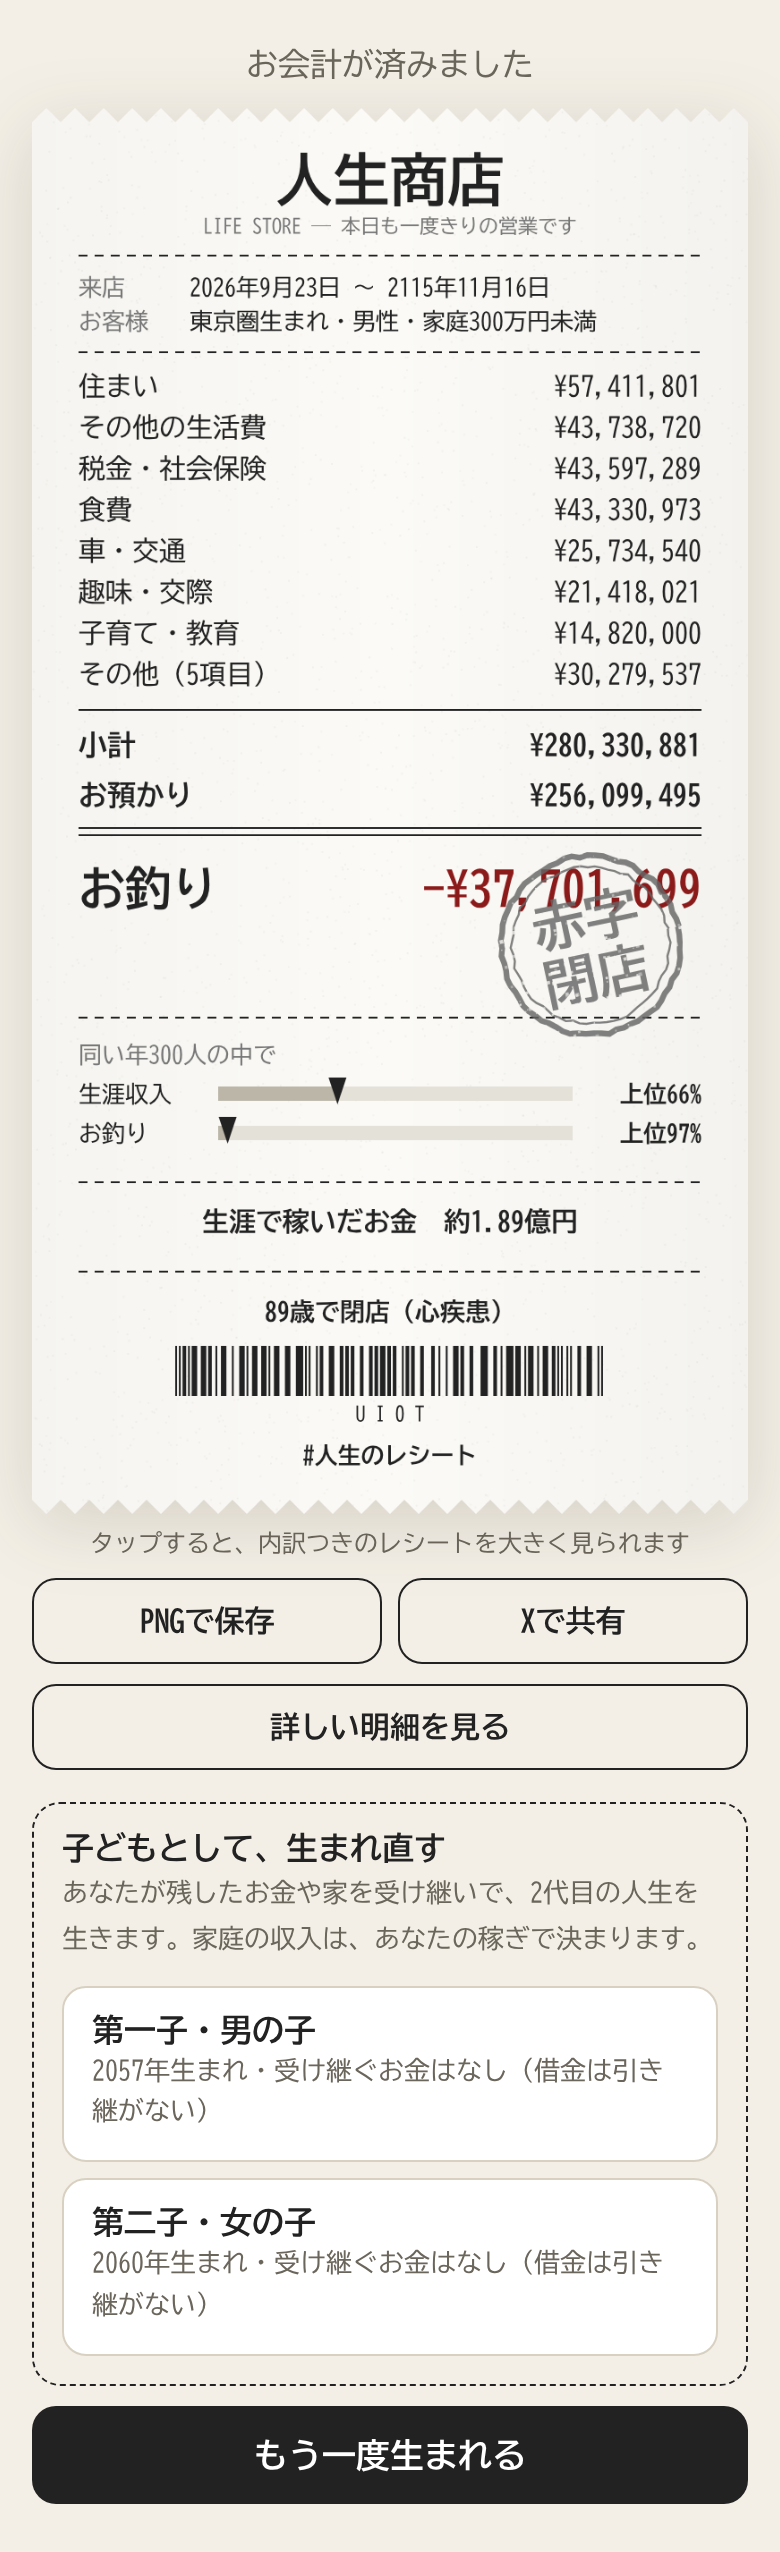
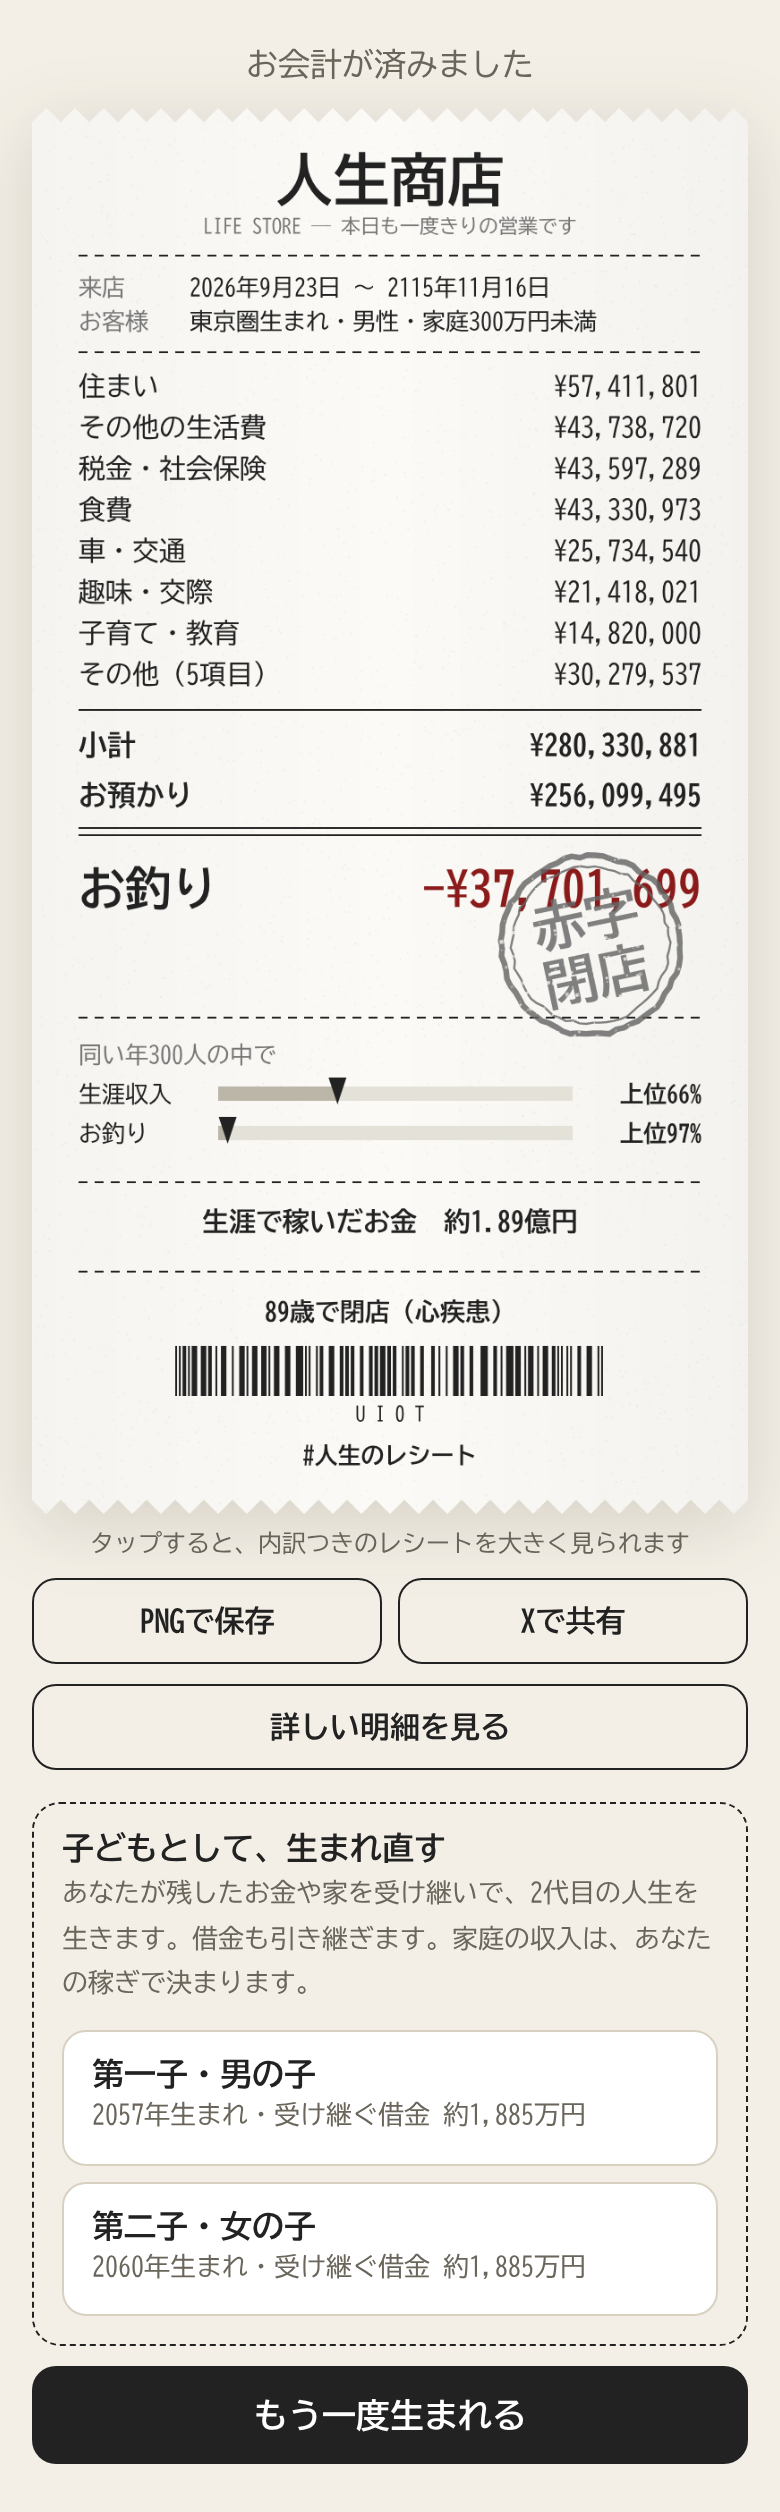
子どもに生まれ直したとき、親の借金も引き継ぐようにする
相続放棄はせず、前の代が残した借金を子どもの数で分けて、親が亡くなった年に引き継ぐ。
結果画面の子どもの欄に「受け継ぐ借金」、レシートに「親から受け継いだ借金」を出す。
1代目の人生は前と同じ（2400人で一致を確認）。

Claude-Session: https://claude.ai/code/session_01P8h7G7H9Hz4F9jwmunJGJH

diff --git a/src/engine/result.ts b/src/engine/result.ts
@@ -95,7 +95,7 @@ export function childOf(l: Life, idx: number): Life {
   const hh = rec ? (rec.income.salary ?? 0) + (rec.income.partner ?? 0) : 0;
   const bands = l.D.household.incomeBandsWithChildren;
   const band = bands.find((b) => hh >= b.min && hh < b.max) ?? (hh < bands[0].min ? bands[0] : bands[bands.length - 1]);
-  // 遺産：最後に残したお金（家を含む）を子どもの数で分ける。借金は引き継がない
+  // 遺産：最後に残したお金（家を含む）を子どもの数で分ける。借金も相続放棄せず、子どもの数で分けて引き継ぐ
   const n = Math.max(1, l.kids.length);
   const total = l.balance;
   const home = Math.max(0, Math.min(l.homeValue, total));
@@ -119,16 +119,17 @@ export function childOf(l: Life, idx: number): Life {
     otherSafeUntil: together ? l.age - k.born + 1 : 0,
     sibs: l.kids.map((o, j) => ({ sex: (kidFemale(l.seed, j) ? "female" : "male") as "female" | "male", born: o.born - k.born })).filter((_, j) => j !== idx),
     estate: Math.max(0, total - home) / n,
-    debt: total < 0,
+    debt: Math.max(0, -total) / n,
     homeShare: home / n,
+    hadHome: l.homeValue > 0,
     lineage,
   };
   return new Life(`${l.seed}k${idx}`, l.D, l.mode, l.birthYear + k.born, h);
 }
 
-/** 子どもとして生まれ直したとき、受け継ぐお金の目安（家を含む。現地通貨） */
+/** 子どもとして生まれ直したとき、受け継ぐお金の目安（家を含む。借金ならマイナス。現地通貨） */
 export function estateFor(l: Life): number {
-  return Math.max(0, l.balance) / Math.max(1, l.kids.length);
+  return l.balance / Math.max(1, l.kids.length);
 }
 
 /** URLの版が今より古いか（ゲームの内容が変わり、同じ人生を再現できなくなったもの） */
@@ -255,7 +256,7 @@ export function buildReceipt(l: Life): ReceiptData {
     { label: "本人の稼ぎ", amount: Math.round(s.incomeTotal.salary ?? 0) },
     { label: "パートナーの稼ぎ", amount: Math.round(s.incomeTotal.partner ?? 0) },
     { label: "年金・退職金", amount: Math.round(s.incomeTotal.pension ?? 0) },
-    { label: "親から受け継いだお金", amount: Math.round(l.inherited) },
+    { label: l.inherited < 0 ? "親から受け継いだ借金" : "親から受け継いだお金", amount: Math.round(l.inherited) },
     { label: "手当・相続・臨時", amount: Math.round((s.incomeTotal.windfall ?? 0) - l.inherited) },
     { label: "運用損益", amount: inv },
   ].filter((d) => Math.abs(l.D.toJpy(d.amount)) >= 10_000);

diff --git a/src/ui/receipt.ts b/src/ui/receipt.ts
@@ -297,12 +297,12 @@ function layout(p: Pen, d: ReceiptData): void {
     yenNote(d.deposit);
   }
   // 短いレシートでも、親から受け継いだお金だけは見せる（子どもに生まれ直した人）
-  const fromParent = d.depositLines.find((l) => l.label === "親から受け継いだお金");
+  const fromParent = d.depositLines.find((l) => l.label.startsWith("親から受け継いだ"));
   if (c && fromParent) {
     p.y += 16;
     if (p.draw) {
-      text(p, "　うち親から受け継いだお金", PAD + 8, 11, { color: GRAY });
-      text(p, money(fromParent.amount), W - PAD, 11, { color: GRAY, align: "right" });
+      text(p, `　うち${fromParent.label}`, PAD + 8, 11, { color: fromParent.amount < 0 ? RED_INK : GRAY });
+      text(p, money(fromParent.amount), W - PAD, 11, { color: fromParent.amount < 0 ? RED_INK : GRAY, align: "right" });
     }
   }
   for (const l of c ? [] : d.depositLines) {
@@ -418,7 +418,7 @@ export function drawReceipt(canvas: HTMLCanvasElement, d: ReceiptData, compact =
 }
 
 // レシートに書く決まった文字（数字・記号を含む）
-const FIXED_TEXT = "うち親から受け継いだ代目家系のレシート稼ぎ／残したお金男性女性第一二三四五子その他（項目）〜人生商店LIFE STORE ─ 本日も一度きりの営業です来店閉店お客様No.小計お預かりお釣り約万円億（今日の為替で換算）同い年人の中で生涯収入上位%生涯で稼いだお金#人生のレシート—…　└¥0123456789,.-";
+const FIXED_TEXT = "借金うち親から受け継いだ代目家系のレシート稼ぎ／残したお金男性女性第一二三四五子その他（項目）〜人生商店LIFE STORE ─ 本日も一度きりの営業です来店閉店お客様No.小計お預かりお釣り約万円億（今日の為替で換算）同い年人の中で生涯収入上位%生涯で稼いだお金#人生のレシート—…　└¥0123456789,.-";
 
 /**
  * レシートで使う文字のフォントを、描く前に読み込む。

diff --git a/scripts/simtest.ts b/scripts/simtest.ts
@@ -17,6 +17,7 @@ const choiceCounts: number[] = [];
 const optionHits = new Map<string, number>();
 let events = 0;
 let heirLives = 0;
+let heirDebts = 0;
 
 function check(l: Life, tag: string) {
   for (const y of l.records) {
@@ -74,6 +75,8 @@ for (let i = 0; i < N; i++) {
         if (h.parentDies <= child.age && !parentDeath) problems.push(`${seed}: ${h.gen}代目で親が亡くならない`);
         if (parentDeath && parentDeath.age !== h.parentDies) problems.push(`${seed}: ${h.gen}代目で親の亡くなる年が違う`);
         if (h.estate > 0 && h.parentDies <= child.age && Math.abs(child.inherited - h.estate - (child.home === "own" && h.homeShare > 0 ? 0 : h.homeShare)) > 1 && child.inherited < h.estate) problems.push(`${seed}: ${h.gen}代目の相続が合わない`);
+        if (h.debt > 0 && h.parentDies <= child.age && Math.abs(child.inherited + h.debt) > 1) problems.push(`${seed}: ${h.gen}代目で借金を引き継いでいない`);
+        if (h.debt > 0) heirDebts++;
         check(child, `${seed}#${h.gen}`);
         const back = (() => { const d = decodeResult(encodeResult(child)); return d && replayCode(d); })();
         if (!back || back.summary().finalBalance !== child.summary().finalBalance || back.heir?.gen !== h.gen) problems.push(`${seed}: ${h.gen}代目をURLから再現できない`);
@@ -113,7 +116,7 @@ if (MODE !== "j") {
 const t1 = Date.now();
 const c = cohort();
 console.log(`比較集団 ${c.income.length}人 ${Date.now() - t1}ms / 例: 中央値の順位 ${(rankOf(c.income, q(incomes, 0.5)) * 100).toFixed(0)}%`);
-console.log(`子どもに生まれ直した人生 ${heirLives}人（2・3代目）`);
+console.log(`子どもに生まれ直した人生 ${heirLives}人（2・3代目）、うち借金を引き継いだ ${heirDebts}人`);
 if (process.argv.includes("--options")) console.log([...optionHits.entries()].sort().map(([k, v]) => `${k}=${v}`).join("  "));
 if (process.argv.includes("--sample")) {
   const l = autoplay("sample-1");

diff --git a/src/engine/sim.ts b/src/engine/sim.ts
@@ -78,12 +78,14 @@ export interface Heritage {
   /** もう一人の親は、この年齢までは亡くならない（前の代のあなたが亡くなったとき、まだ生きていた） */
   otherSafeUntil: number;
   sibs: { sex: Sex; born: number }[];
-  /** 受け継ぐお金（家を除く。借金は引き継がない） */
+  /** 受け継ぐお金（家を除く） */
   estate: number;
-  /** 前の代のあなたが借金を残した（相続しない） */
-  debt: boolean;
+  /** 受け継ぐ借金（前の代のあなたが借金を残したとき。相続放棄はせず、子どもの数で分けて引き継ぐ） */
+  debt: number;
   /** 実家のうち自分の分の価値 */
   homeShare: number;
+  /** 前の代のあなたは家を持っていた */
+  hadHome: boolean;
   /** これまでの代（古い順） */
   lineage: LineageEntry[];
 }
@@ -1142,7 +1144,11 @@ export class Life {
       this.inherited += h.estate;
       this.log("money", `${h.gen - 1}代目のあなたが残したお金を相続した。`, h.estate, true);
     }
-    if (h.debt) this.log("money", "親が残した借金は、相続しなかった（相続放棄）。", undefined, true);
+    if (h.debt > 0) {
+      this.addIncome("windfall", -h.debt);
+      this.inherited -= h.debt;
+      this.log("money", h.homeShare === 0 && h.hadHome ? "実家を売っても返しきれず、親が残した借金を引き継いだ。" : "親が残した借金を引き継いだ。", -h.debt, true);
+    }
     if (h.homeShare > 0) {
       if (this.home === "parents") {
         this.home = "own";

diff --git a/src/main.ts b/src/main.ts
@@ -350,7 +350,7 @@ function heirBlock(life: Life): string {
   if (!life.kids.length) return "";
   if (gen >= MAX_GEN) return `<p class="heir-end">${MAX_GEN}代の家系は、ここでおしまいです。</p>`;
   const estate = estateFor(life);
-  const money = estate > 0 ? `受け継ぐお金 約${life.D.fmt(estate)}` : "受け継ぐお金はなし（借金は引き継がない）";
+  const money = estate > 0 ? `受け継ぐお金 約${life.D.fmt(estate)}` : estate < 0 ? `受け継ぐ借金 約${life.D.fmt(-estate)}` : "受け継ぐお金はなし";
   const kids = life.kids
     .map((k, i) => {
       const nth = ["第一子", "第二子", "第三子", "第四子", "第五子"][i] ?? "子ども";
@@ -360,7 +360,7 @@ function heirBlock(life: Life): string {
     .join("");
   return `<div class="heir">
     <h3>子どもとして、生まれ直す</h3>
-    <p>あなたが残したお金や家を受け継いで、${gen + 1}代目の人生を生きます。家庭の収入は、あなたの稼ぎで決まります。</p>
+    <p>あなたが残したお金や家を受け継いで、${gen + 1}代目の人生を生きます。借金も引き継ぎます。家庭の収入は、あなたの稼ぎで決まります。</p>
     ${kids}
   </div>`;
 }

diff --git a/README.md b/README.md
@@ -23,7 +23,7 @@
    - **統計にもとづく出来事**：物価の暴騰（通貨の価値が急落）、盗難・強盗、政情不安、紛争による避難、感染症、干ばつ、洪水・地震。起こりやすさはその国のインフレ率・殺人率・政治の安定度などから決まる。物価が荒れやすい国では「ドルや金で貯める」選択も出る。毎年の物価上昇率は、その国で実際に記録された年の値をひと続きで借りてくる（例：「物価が1年で42%上がった（イランで2025年に実際に記録された上昇率）」）。物価で目減りした現金は、レシートに「物価で消えた貯金」として別の行で出る。レシート画像の下の方には「生涯で稼いだお金　約◯◯円」が入り、Xの投稿文も「イランに生まれ、生涯で稼いだお金は約803万円。」のように始まる（本人の稼ぎだけ。パートナーの稼ぎ・年金・手当は含めない）。リンクを共有したときのプレビュー画像は public/og.png（`node scripts/ogimage.mjs` で作り直せる）。
    - どの道にも得と損の両方がある。正解はない。
 6. 亡くなるとレシートが発行される。金額は現地通貨（日本以外は円換算も併記）。画面では1画面に収まる短いレシート（費目は上位7つ＋その他、説明や内訳は省く）を出し、タップすると内訳つきの長いレシートを大きく見られる。保存する画像は長いレシートのまま。**PNGで保存**／**Xで共有**／**詳しい明細を見る** ができる。
-7. **子どもとして生まれ直す**（3代目まで）：子どもがいる人は、結果の画面で子どもを選んで次の代を遊べる（続けるかどうかは毎回選べるので、2代で終えてもよい）。次の代は、前の代の人生から決まる：同じ国・地域、家庭の年収は「その子が生まれた年の前の代の夫婦の稼ぎ」、親の年齢ときょうだいは前の代の実際の家族、前の代のあなたは前の代で亡くなった年に亡くなり、残したお金（家を含む）を子どもの数で分けて相続する（借金は引き継がない＝相続放棄）。実家暮らしなら家ごと受け継ぐ。レシートには「2代目（1代目の第一子）」と、代ごとの稼ぎと残したお金を並べた「家系のレシート」が入る。共有URLは前の代のURLの後ろに「~子どもの番号.選んだ番号」を足した形（今までのURLはそのまま使える）。乱数の流れは変えていないので、1代目の人生は前と同じ（`src/engine/result.ts` の childOf、`src/engine/sim.ts` の Heritage）。
+7. **子どもとして生まれ直す**（3代目まで）：子どもがいる人は、結果の画面で子どもを選んで次の代を遊べる（続けるかどうかは毎回選べるので、2代で終えてもよい）。次の代は、前の代の人生から決まる：同じ国・地域、家庭の年収は「その子が生まれた年の前の代の夫婦の稼ぎ」、親の年齢ときょうだいは前の代の実際の家族、前の代のあなたは前の代で亡くなった年に亡くなり、残したお金（家を含む）を子どもの数で分けて相続する。借金を残したときは、相続放棄はせず、借金も子どもの数で分けて引き継ぐ（1代目でしっかり稼ぐ意味を持たせるため）。実家暮らしなら家ごと受け継ぐ。レシートには「2代目（1代目の第一子）」と、代ごとの稼ぎと残したお金を並べた「家系のレシート」が入る。共有URLは前の代のURLの後ろに「~子どもの番号.選んだ番号」を足した形（今までのURLはそのまま使える）。乱数の流れは変えていないので、1代目の人生は前と同じ（`src/engine/result.ts` の childOf、`src/engine/sim.ts` の Heritage）。
 
 - 同じシードなら同じ人生：`/?seed=好きな文字列`（タイトルでモードを選ぶ）
 - 0〜5歳は、成長の場面（初めて歩いた、保育園・幼稚園、七五三、ランドセルなど）が毎年1〜2個出る。日本かどうか・都市か農村か・国の所得水準で中身が変わる。出来事も言い回しもランダム。行事は「その国でほぼ全員が経験するもの」（日本のランドセルなど）は必ず出し、「家庭によって違うもの」（七五三、保育園と幼稚園のどちらか）は確率で出す。ほかの国の行事を足すときもこの決まりで決める。主要19か国（インド・中国・ナイジェリア・アメリカ・フランス・韓国など）は、その国の行事も出る（命名式、アキーカ、洗礼、満月祝い・百日、抓周・トルジャンチ・トイノイ、ハロウィーン、中秋節、ザンクト・マルティン、6歳の入学のシュールテューテなど。資料は `data/world/manual/jinsei_receipt_part8.csv`、ゲームの文は `src/engine/rites.ts`）。宗教や民族で決まる行事は、その人たちの割合くらいの確率にしている。出生届や予防接種の記録は本人の思い出にならないので入れていない。お金は動かさず専用の乱数を使うので、ほかの出来事・選択・金額には影響しない（`src/engine/early.ts`）。ドット絵も合わせて変わる（よちよち歩き、幼稚園の黄色い帽子、七五三の着物・はかま、ランドセル）。
